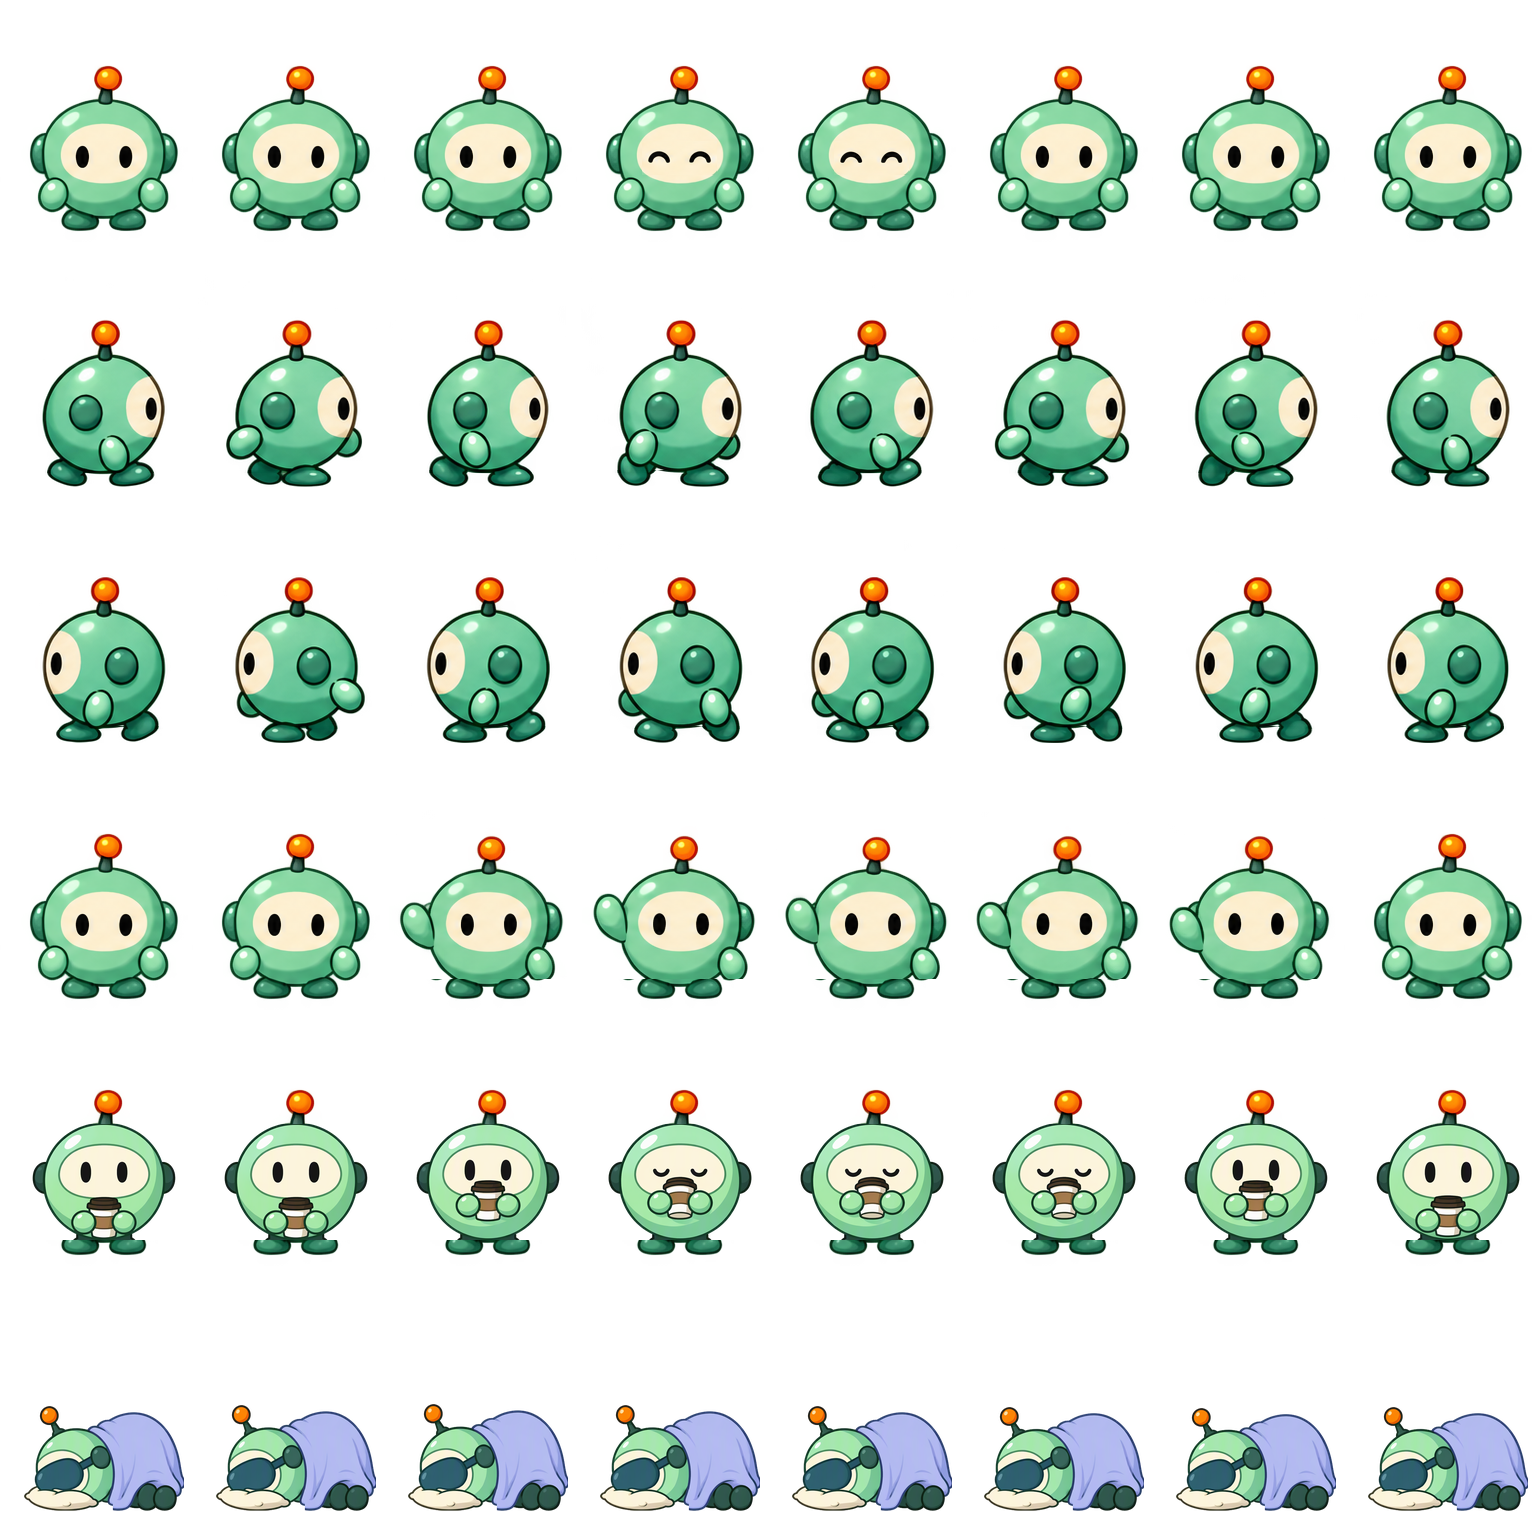
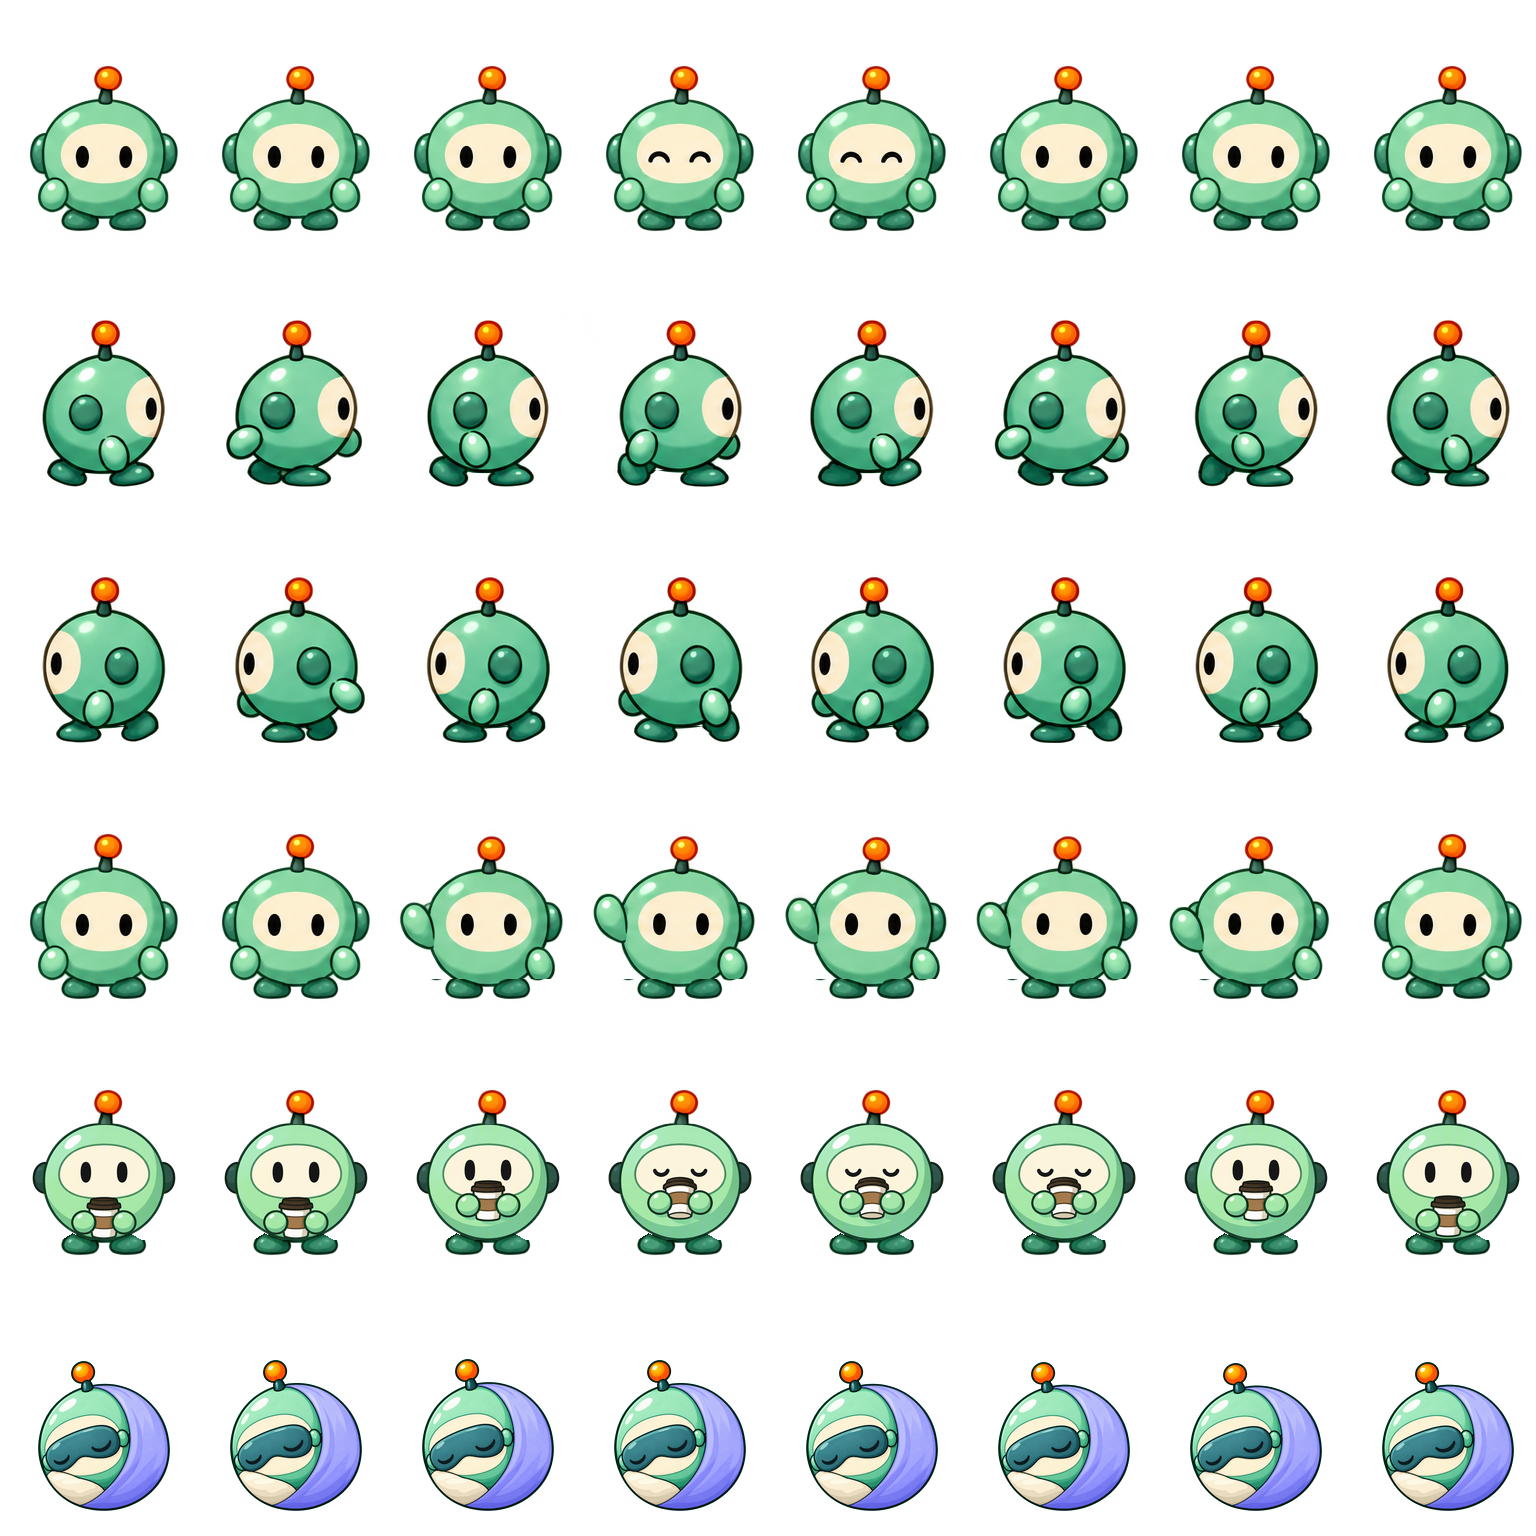
fix: refine desktop pet sleep and coffee animations for local.13

Changed region(s): [[0.0, 0.875, 1.0, 1.0]]

diff --git a/src/renderer/src/desktopPet/main.ts b/src/renderer/src/desktopPet/main.ts
@@ -8,6 +8,7 @@ import type {
 } from '../../../shared/desktopPetTypes'
 import { validatePetManifest, PET_ACTIONS } from '../../../shared/desktopPetManifest'
 import { getPetFrame } from './player'
+import { getSleepSway } from './sleepMotion'
 import { PetClickArbiter } from './interaction'
 import manifestData from './assets/manifest.json'
 import atlasUrl from './assets/atlas.png?url'
@@ -123,7 +124,7 @@ async function loadAtlas(): Promise<void> {
 }
 
 /**
- * 按动作时钟绘制交互与空闲动作，咖啡完整播放后确认，睡眠持续绘制浮动 zzz。
+ * 按动作时钟绘制交互与空闲动作，咖啡完整播放后确认，睡眠连续倾摆并绘制睡眠符号。
  * @returns 无返回值。
  */
 function render(): void {
@@ -155,17 +156,19 @@ function render(): void {
   // 睡眠每次重绘，文字漂浮时钟独立于离散的呼吸帧。
   if (index !== lastFrame || (frontFacing && gazeDirty) || action === 'sleeping') {
     ctx.clearRect(0, 0, canvas.width, canvas.height)
-    ctx.drawImage(
-      atlas,
-      selected.frame * manifest.cell.width,
-      manifest.clips[action].row * manifest.cell.height,
-      manifest.cell.width,
-      manifest.cell.height,
-      0,
-      0,
-      canvas.width,
-      canvas.height
-    )
+    if (action === 'sleeping') drawSleepingFrame(selected.frame)
+    else
+      ctx.drawImage(
+        atlas,
+        selected.frame * manifest.cell.width,
+        manifest.clips[action].row * manifest.cell.height,
+        manifest.cell.width,
+        manifest.cell.height,
+        0,
+        0,
+        canvas.width,
+        canvas.height
+      )
     // 已对齐的正面动作复用当前视线，避免点击时眼睛回正再跳回。
     if (frontFacing) drawGaze()
     // 咖啡面部与睡眠眼罩不使用旧眼睛坐标，避免重绘出多余眼睛。
@@ -186,7 +189,44 @@ function render(): void {
 }
 
 /**
- * 在低头睡眠头部上方绘制错相的漂浮文字，暂停时冻结透明度和位置。
+ * 将睡眠帧分为身体与天线上缘，连续倾摆且在根部保持接合。
+ * @param frame 当前睡眠呼吸帧。
+ * @returns 无返回值。
+ */
+function drawSleepingFrame(frame: number): void {
+  if (!atlas) return
+  const { slope, antennaRootY, antennaCounterRatio } = getSleepSway(elapsed)
+  const width = manifest.cell.width
+  const height = manifest.cell.height
+  const sourceX = frame * width
+  const sourceY = manifest.clips.sleeping.row * height
+  ctx.save()
+  ctx.scale(canvas.width / width, canvas.height / height)
+  // 身体以下缘为锚左右倾摆，幅度限制在约四像素，保持圆形观感。
+  ctx.save()
+  ctx.transform(1, 0, -slope, 1, 230 * slope, 0)
+  ctx.drawImage(
+    atlas,
+    sourceX,
+    sourceY + antennaRootY,
+    width,
+    height - antennaRootY,
+    0,
+    antennaRootY,
+    width,
+    height - antennaRootY
+  )
+  ctx.restore()
+  // 根部位移与身体一致；越接近天线尖端，反向偏移越明显。
+  const rootOffset = (230 - antennaRootY) * slope
+  const antennaSlope = slope * antennaCounterRatio
+  ctx.transform(1, 0, antennaSlope, 1, rootOffset - antennaRootY * antennaSlope, 0)
+  ctx.drawImage(atlas, sourceX, sourceY, width, antennaRootY, 0, 0, width, antennaRootY)
+  ctx.restore()
+}
+
+/**
+ * 在睡眠头部上方绘制三个错相漂浮的 z 字母，暂停时冻结透明度和位置。
  * @returns 无返回值。
  */
 function drawSleepZzz(): void {
@@ -194,16 +234,16 @@ function drawSleepZzz(): void {
   ctx.scale(canvas.width / 192, canvas.height / 256)
   ctx.textAlign = 'center'
   ctx.textBaseline = 'middle'
-  ctx.fillStyle = '#daf5eb'
+  ctx.fillStyle = '#8db5ef'
   ctx.strokeStyle = '#164f43'
-  ctx.lineWidth = 2.5
-  // 三个错相字母保证循环任何时刻都有可见文字，且位于眼罩上方而非臀部。
+  ctx.lineWidth = 1.5
+  // 三个普通字母从天线左侧依次浮起，大小随高度增加。
   for (let i = 0; i < 3; i++) {
     const phase = (elapsed / 2400 + i / 3) % 1
     ctx.globalAlpha = Math.sin(Math.PI * phase)
-    ctx.font = `bold ${14 + phase * 6}px sans-serif`
-    const x = 60 + phase * 25
-    const y = 130 - phase * 52
+    ctx.font = `bold ${12 + phase * 8}px sans-serif`
+    const x = 44 + phase * 14
+    const y = 110 - phase * 48
     ctx.strokeText('z', x, y)
     ctx.fillText('z', x, y)
   }

diff --git a/tests/main/desktopPetSleepMotion.test.ts b/tests/main/desktopPetSleepMotion.test.ts
@@ -1,0 +1,27 @@
+import { describe, expect, it } from 'vitest'
+import { getSleepSway } from '../../src/renderer/src/desktopPet/sleepMotion'
+
+describe('sleep sway', /**
+ * 验证摆动方向、连续衔接与冻结时钟契约。
+ * @returns 无返回值。
+ */ () => {
+  it('sways both ways, keeps the ground fixed and moves the antenna tip against the body', /**
+   * 检查半周期对称及天线顶端实际位移方向，避免仅反转局部角度却仍同向移动。
+   * @returns 无返回值。
+   */ () => {
+    for (const time of [800, 2400]) {
+      const { slope, antennaRootY, antennaCounterRatio } = getSleepSway(time)
+      const rootOffset = (230 - antennaRootY) * slope
+      const tipOffset = rootOffset + (80 - antennaRootY) * slope * antennaCounterRatio
+      expect(rootOffset * tipOffset).toBeLessThan(0)
+      expect(Math.abs(rootOffset)).toBeLessThan(5)
+      expect(Math.abs(tipOffset)).toBeLessThan(5)
+      // 上下切片在根部拥有同一位移，避免天线断开。
+      expect(rootOffset + (antennaRootY - antennaRootY) * slope * antennaCounterRatio).toBe(
+        rootOffset
+      )
+    }
+    expect(getSleepSway(800).slope).toBeCloseTo(-getSleepSway(2400).slope)
+    expect(getSleepSway(0).slope).toBeCloseTo(getSleepSway(3200).slope)
+  })
+})

diff --git a/tests/main/desktopPetAtlas.test.ts b/tests/main/desktopPetAtlas.test.ts
@@ -132,6 +132,19 @@ describe('desktop pet atlas pixel contract', /**
  * 验证所有动作的透明度、地面与球形侧身。
  * @returns 无返回值。
  */ () => {
+  it('keeps both coffee shoe uppers visible above the old y=216 crop', /**
+   * 检查曾被截断的左右鞋面，防止只验证落地基线而漏掉上半部缺失。
+   * @returns 无返回值。
+   */ () => {
+    const image = decodedAtlas
+    for (let col = 0; col < 8; col++) {
+      for (const x of [69, 134]) {
+        const alpha = image.pixels[((4 * 256 + 212) * image.width + col * 192 + x) * 4 + 3]
+        expect(alpha, `coffee shoe ${col}:${x}`).toBeGreaterThan(200)
+      }
+    }
+  })
+
   it('grounds every non-jump frame at y=230 and keeps required cells transparent/nonempty', /**
    * 以原始 alpha>16 测量 48 帧，防止背景或插值尾部污染。
    * @returns 无返回值。

diff --git a/src/renderer/src/desktopPet/sleepMotion.ts b/src/renderer/src/desktopPet/sleepMotion.ts
@@ -1,0 +1,17 @@
+/**
+ * 计算以落地点为锚的睡眠倾摆与天线反向摆动，供同一暂停时钟驱动。
+ * @param elapsedMs 睡眠动作已累计的有效毫秒数。
+ * @returns 身体剪切斜率、天线根部高度及反向剪切倍率。
+ */
+export function getSleepSway(elapsedMs: number): {
+  slope: number
+  antennaRootY: number
+  antennaCounterRatio: number
+} {
+  // 一个往返与八帧呼吸同为 3200ms；约 1.4 度倾摆不改变落地基线。
+  return {
+    slope: Math.sin((Math.max(0, elapsedMs) / 3200) * Math.PI * 2) * 0.025,
+    antennaRootY: 108,
+    antennaCounterRatio: 6
+  }
+}

diff --git a/src/renderer/src/desktopPet/assets/README.md b/src/renderer/src/desktopPet/assets/README.md
@@ -29,3 +29,25 @@
 - 生成图以 Pillow 做边缘连通白背景去除、边缘去白底、切片、球壳中心对齐和确定性装配；复用原待机天线与脚保持切换锚点。睡眠以底边固定的微幅缩放形成呼吸。`zzz` 不在原画中，由画布在睡眠头部上方绘制三个错相浮动、渐隐文字；暂停时冻结位置与透明度。生成输入、装配脚本和灰底/红基线 contact sheet 仅留在不提交的 `vibe_images/`，生产代码只引用本目录图集。
 - 咖啡为 8 帧非循环动作（总时长 1600ms），睡眠为 8 帧循环呼吸（3200ms）。主进程每 750ms 读取 `powerMonitor.getSystemIdleTime()`，正常阈值 5s/15s/25s；第三杯由渲染器确认播放完后进入睡眠，系统输入唤醒并重置循环。测试比例 `ZTOOLS_DESKTOP_PET_IDLE_SCALE` 只在主进程读取；暂停、隐藏及快跑期间不持续采样，注视覆盖仅用于 idle/waving。
 - 素材沿用上文原创生成来源说明，没有第三方品牌或授权变更；不将未提交的参考插画作为运行时素材。
+
+## 2026-10-21 睡眠身形修正
+
+- 原睡眠原画把面板所在球壳与被子下方的身体分成两段，形成额外的高拱背部，与角色一体式圆球身材不符。使用内置 ImageGen 基于当前图集重绘单张睡姿：奶油面板、眼罩与薄荷绿外壳属于同一个球体，被子贴合球壳右半侧，去除独立躯干、拱起臀部与长身体。
+- 生成文件：`exec-862aaf32-e673-428a-a5a4-ff857fe1dd8a.png`。提示词要点：one single compact spherical robot, face panel on the same ball, no separate head/neck/torso/rear, lavender-blue blanket draped over the right half of the same sphere, no second dome or elongated body; cream pillow, teal sleep mask, orange antenna, tiny tucked feet; preserve identity and cel-shaded style; transparent background, no shadow, no lettering。
+- 仅替换 `atlas.png` 第 6 行的 8 帧；第 1–5 行逐像素保持一致，清单与播放逻辑不变。单帧宽度保持 160px，呼吸沿用 `[0,1,2,1,0,-1,-2,-1]` 的微幅高度变化，alpha>16 的最低像素固定在单格 y=230。源图与确定性装配脚本留在本地 `vibe_images/`。
+
+## 2026-10-21 圆形睡姿与隐藏双脚（当前版本）
+
+- 上一版仍呈现脸部与被子两个鼓包，本版重新生成单一圆形外轮廓：薄荷绿外壳与右侧紫色被子共用圆心与半径，被子不向右扩出独立身体，两只脚完全隐藏，枕头收在圆形下缘内。保留眼罩、奶油面板和橙色天线。
+- 内置 ImageGen 输出：`exec-e0a3e706-2bd0-4b7d-81f2-14cc6b24f400.png`。提示词要点：one perfect circle silhouette for the entire robot including blanket; exposed mint-green left 65% and lavender blanket right 35% share one center and radius; no feet, no protruding hands, no second lobe or flared hem; preserve original character identity and transparent background。
+- 当前装配宽度改为 132px，使主体球体直径接近待机外壳；含天线的首帧高度为 150px，八帧沿用原微幅呼吸与 y=230 基线。只替换第 6 行，前 5 行逐像素一致。源图、`assemble-sleep.cjs` 与八帧预览保留在本地 `vibe_images/`。
+
+## 2026-10-21 睡眠倾摆与睡眠符号
+
+- 渲染器沿用圆形无脚图集，按 3200ms 正弦周期轻微左右倾摆，身体以 y=230 为固定落地锚点。单格 y=108 以上的天线区域在根部与身体连续衔接，向尖端施加反向轻摆；倾摆参数位于 `../sleepMotion.ts`。
+- 原手绘 z 字母替换为两个错相浮动、渐隐的 `💤`，使用系统彩色 emoji 字体；实际 Electron 截图已确认符号可见。呼吸帧、身体、天线和符号共用有效动画时钟，暂停时整个画布冻结。
+
+## 2026-10-21 文字 zzz 与咖啡脚部修复（当前显示）
+
+- 睡眠提示改为三个普通字体绘制的 `z`，错相浮起、渐隐并逐渐放大；不使用 emoji 字体或表情字符。原有身体倾摆、天线反向摆动与暂停时钟保留。
+- 咖啡脚部原装配从 y=216 截取待机下缘，切掉鞋面上半部，形成水平遮挡。八个咖啡帧补回待机鞋面轮廓，仅装配脚部区域，中央咖啡杯与其他动作保留；落地基线仍为 y=230。

diff --git a/changelog.md b/changelog.md
@@ -1,3 +1,11 @@
+# CAI.Tools 3.2.0-local.13
+
+- 修正睡眠身形为单一圆球轮廓，毛毯贴合身体并隐藏双脚。
+- 睡眠新增轻微左右倾摆，天线反向轻摆，头顶使用普通文字 zzz 浮起渐隐；暂停时一起冻结。
+- 修复喝咖啡时鞋面被素材裁切、脚部显示不完整的问题。
+
+---
+
 # CAI.Tools 3.2.0-local.11
 
 - 桌面快跑窗口可拖动到任意位置，松手后夹取在当前屏幕工作区内，位置保存在本机并在下次打开时恢复。
